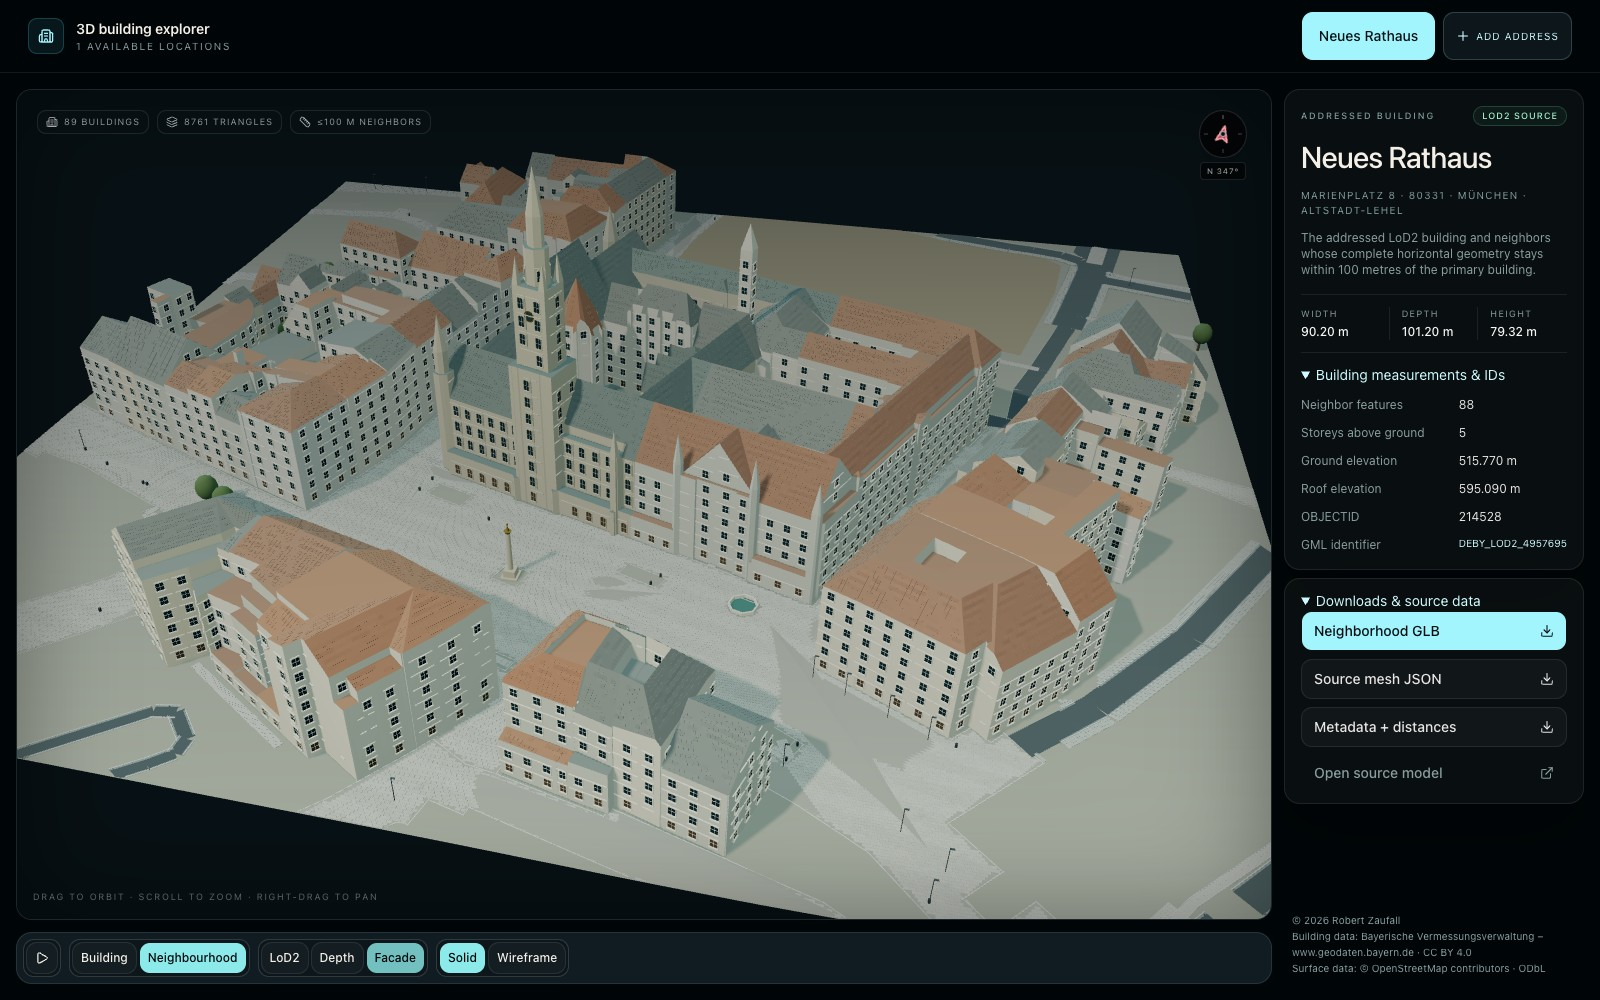
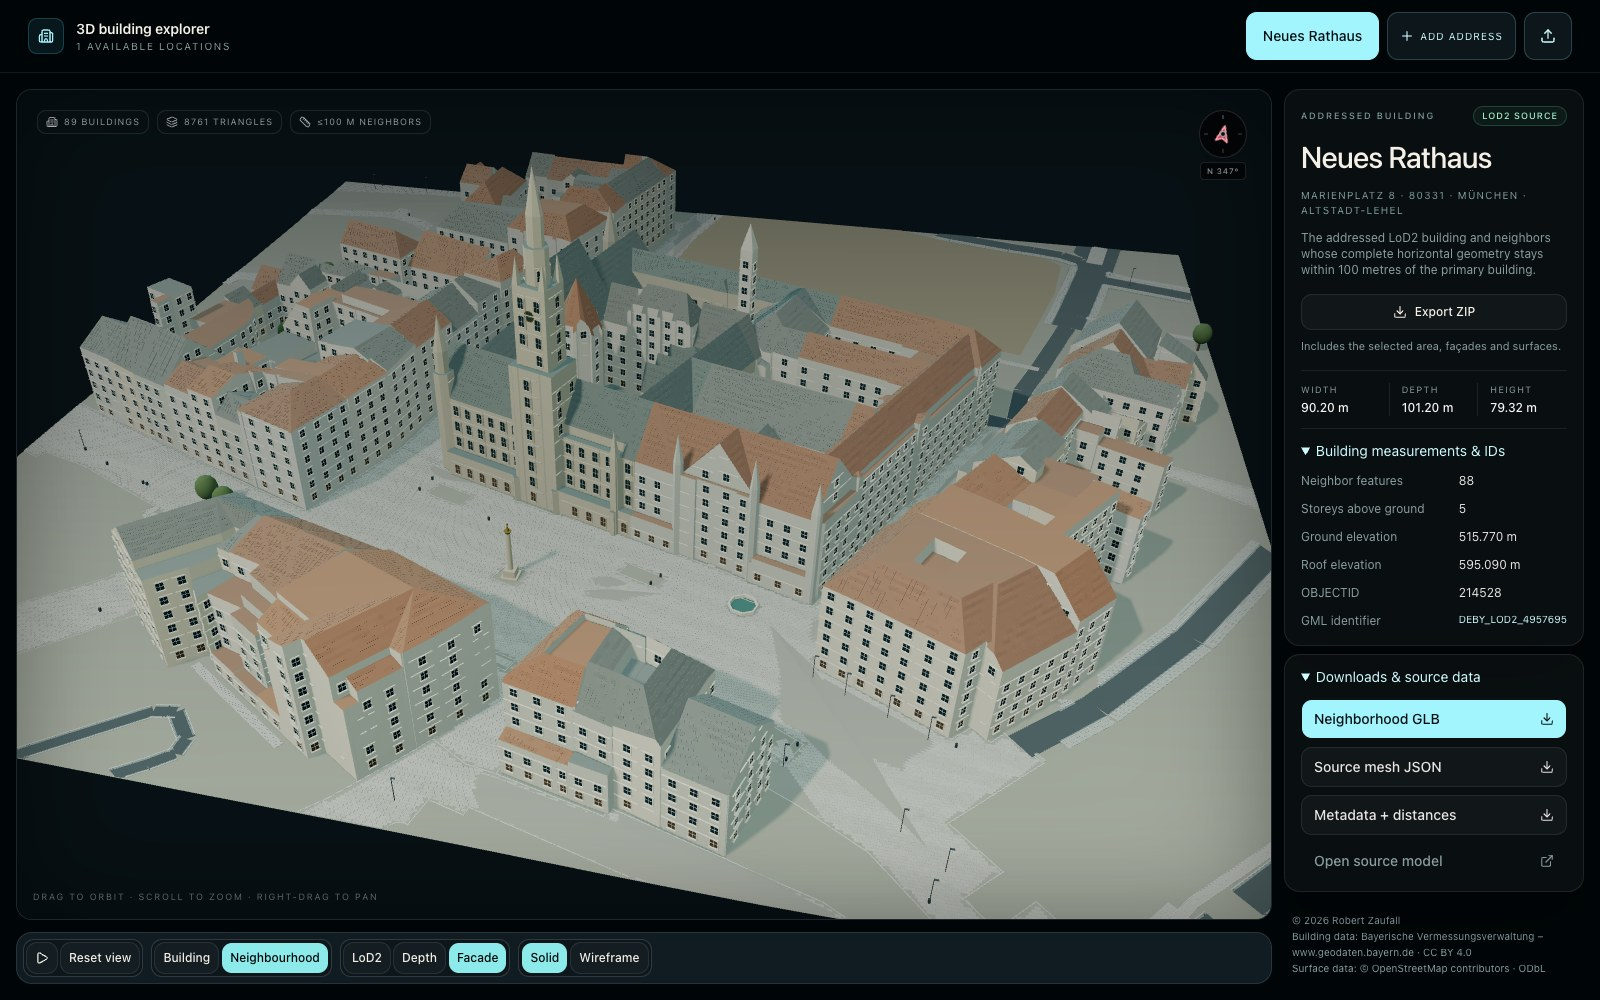
Refresh public screenshots and document global ZIP sharing

Changed region(s): [[0.8125, 0.31, 1.0, 0.868], [0.0312, 0.93, 0.4062, 0.992], [0.7812, 0.0, 0.9688, 0.062]]

diff --git a/README.md b/README.md
@@ -36,7 +36,9 @@ Other commands, from `website/`:
 
 Location buttons switch the model, dimensions, attributes, counts, source link
 and downloads together. Models automatically fit the visible geometry; orbit,
-pan and zoom are available in the scene.
+pan and zoom are available in the scene. **Add address** creates a model; the
+**upload icon** immediately beside it imports a ZIP into the site-wide chooser.
+The upload icon has an **Import ZIP** accessible label and a hover tooltip.
 
 The bottom row groups direct controls:
 
@@ -61,9 +63,11 @@ selects it. Add `&view=reconstruction` to select Facade on initial load.
 
 ### Screenshots
 
-Captured from the current homepage at 1600 × 1000 with only the public Rathaus
-100 m bundle available. Private address names and assets are excluded. Click an
-image to inspect it at full size; facade details are illustrative.
+Refreshed on **5 September 2026** from the live homepage at **1600 × 1000**,
+using a fresh browser session with only the public Rathaus 100 m sample. Rotation
+was paused for consistent captures. Private addresses and imported private data
+are excluded. Click an image to inspect it at full size; facade details are
+illustrative.
 
 | Reconstructed neighbourhood | Building facade |
 | --- | --- |
@@ -94,7 +98,8 @@ Use **Export ZIP** in the address column to download the selected area's origina
 GLB, source mesh and metadata, plus its complete façade and surface snapshot when
 available. Neighbours and their authored façade profiles are included even when
 Building mode is selected. Filenames include the address, area size and local
-export timestamp. The archive preserves reconstruction reference notes;
+export timestamp, for example `Neues-Rathaus-100m-2026-09-05_22-30-00.zip`.
+The archive preserves reconstruction reference notes;
 external reference photos themselves are not bundled.
 
 Send the ZIP to your friend. They can open [Munich3D](https://glaubi.net/munich3d/)
@@ -102,8 +107,10 @@ and choose the global **upload icon** (Import ZIP) beside **Add address**. It ad
 imported location to the address chooser and selects it, regardless of which
 address was previously selected. Import also works on localhost.
 The address is saved only in that browser's IndexedDB, survives reload and can be
-re-exported or removed with the runtime-model delete control. No address data is
+re-exported or removed with **Delete imported model**. No address data is
 uploaded or added to the public catalog. Clearing browser storage removes imports.
+
+![Successful import of the public Rathaus ZIP, with the global upload icon and address-level Export ZIP control](docs/address-import.jpg)
 
 Archives use the versioned `munich3d-address` format with SHA-256 file checksums.
 Import validates the source bundle before saving; limits are 100 MB compressed
@@ -122,6 +129,8 @@ website/
   components/house-viewer.tsx Model loading, camera and interaction
   lib/area-reconstruction.ts Illustrative geometry and surface rendering
   lib/browser-models.ts      Browser generation and IndexedDB cache
+  lib/address-sharing.ts     ZIP downloads, imports and worker orchestration
+  lib/address-archive.mjs    Shared versioned ZIP codec and validation
   scripts/                   Catalog, surface preparation and validation tools
   addresses/<address>/
     model/                   <model>.glb, .metadata.json, .source-mesh.json
@@ -301,6 +310,7 @@ node --check import_bayernatlas.mjs
 node --check export_model_to_glb.mjs
 node --test tests/bayernatlas.test.mjs
 node --test website/scripts/address-bundles.test.mjs
+node --test website/scripts/address-archive.test.mjs
 node website/scripts/test-area-reconstruction.mjs
 node website/scripts/test-area-camera.mjs
 npm run build --prefix website
@@ -317,6 +327,22 @@ building visibility, Facade camera stability, depth/wireframe, compass and a cle
 console. Runtime changes additionally require cached/uncached generation,
 downloads, deletion and reload persistence. See [AGENTS.md](AGENTS.md) for the
 change-specific validation matrix.
+
+### Refresh documentation screenshots
+
+Use a fresh, isolated browser session on the deployed site or a preview built
+from a public-only checkout. Do not use the normal local development catalog:
+Git-ignored private addresses may still appear there. Verify that the chooser
+contains only **Neues Rathaus**, and use only its ZIP for the import example.
+Do not clear the user's browser storage to prepare documentation.
+
+Set the viewport to 1600 × 1000, wait for the model to finish loading, pause
+rotation, and use Reset view after choosing Building or Neighbourhood. Wait for
+button transitions and the scene to settle before each capture. Refresh the six
+explorer/form images above and `docs/address-import.jpg`; retain the current
+controls, source attribution and copyright. Review every capture for private
+content and correct active modes before copying it into `docs/`. Keep ZIPs and
+intermediate browser output under ignored `website/output/playwright/`.
 
 ## Attribution
 

diff --git a/AGENTS.md b/AGENTS.md
@@ -98,15 +98,37 @@ setup, extraction commands, asset layout and runtime architecture.
 - Hosted generation runs in a browser Web Worker with IndexedDB persistence for
   GLB, source-mesh, metadata and catalog data. No server compute, Blender, child
   processes, containers, OBJ output or temporary export directories.
-- Keep the icon-only Import ZIP button beside the global Add address control; importing adds/selects
-  an address in the site chooser. Keep Export ZIP in the selected address column.
+- Keep the icon-only Import ZIP button immediately beside Add address in one
+  non-wrapping group. Retain its accessible label and tooltip. Import status
+  belongs in the header; importing adds/selects an address in the site-wide
+  chooser, independent of the selected address. Keep Export ZIP and its status
+  in the selected address column.
 - ZIP sharing includes the original bundle and the complete optional area snapshot,
   including primary, connected and neighbor façade profiles. Imports stay in
   IndexedDB on both localhost and the hosted site; never write them to permanent
-  folders or upload them. Validate archives before atomic persistence.
+  folders or upload them. Validate archives before atomic persistence. Preserve
+  the versioned format and checksums, and include address, area size and local
+  timestamp in ZIP filenames. Reference notes are included; external photos are
+  not bundled. Imported-model deletion must retain permanent source bundles.
 - Never upload browser-generated addresses or create a public generated catalog.
 - Cloudflare assets use `/munich3d/`; retain `workers_dev: false` and routes only
   for `/munich3d` and `/munich3d/*`.
+
+## Documentation and screenshots
+
+- Keep README controls, ZIP sharing instructions and screenshots aligned with the
+  current interface. Use only the public Rathaus 100 m sample in documentation.
+- Capture from a fresh isolated browser session on the public site or a preview
+  containing only public assets. Check the chooser and import cache; private
+  names can appear even when they are Git-ignored. Never clear user browser
+  storage or remove private folders to prepare screenshots.
+- Use 1600 × 1000, wait for model readiness, pause rotation and reset the selected
+  scope. Let transitions settle so button states match the rendered scene.
+  Review every image before publication, including dialogs and import status.
+- Refresh the homepage, neighbourhood facade, building facade, reconstruction
+  wireframe, source depth, Add address form and public ZIP import example under
+  `docs/`. Keep temporary screenshots and ZIPs in ignored
+  `website/output/playwright/`; never commit private archives.
 
 ## Validation by change
 
@@ -123,5 +145,5 @@ and `git diff --check`, not extraction or builds.
 | Reconstruction/camera | `node website/scripts/test-area-reconstruction.mjs` and `node website/scripts/test-area-camera.mjs`, passing the changed model ID when applicable; build and real-browser verification. |
 | Selector/viewer | All available addresses in a real browser, clean console; model, metadata, source link and downloads change together. Verify fitting, connected-part visibility, Facade camera stability, depth, wireframe and compass. |
 | Local generation server | Health, cached/uncached generation, runtime GLB download, deletion/fallback and permanent-model deletion protection. |
-| ZIP sharing | `node --test website/scripts/address-archive.test.mjs`; browser export/import, façade view, reload, re-export and deletion. |
+| ZIP sharing | `node --test website/scripts/address-archive.test.mjs`; import while a different address is selected, verify the global chooser entry, façade view, reload, byte-preserving re-export and deletion. Use only Rathaus in public documentation. |
 | Browser generation | Cloudflare build; browser generation, IndexedDB reload and deletion. Repeat on the deployed site only after explicitly authorized deployment. |
